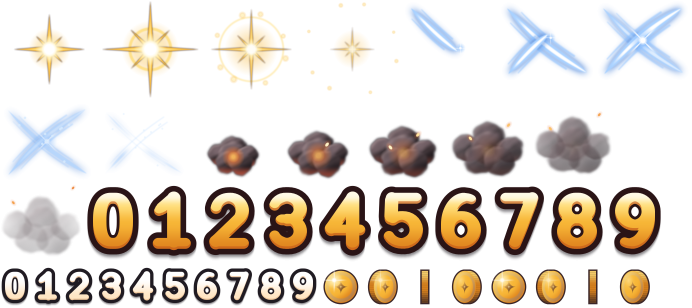
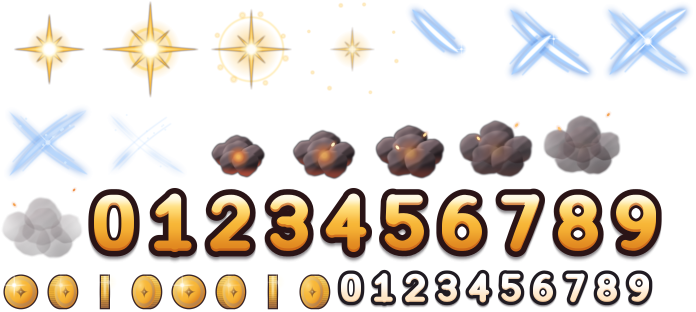
art: the painted feedback reads at phone size - broader cuts, gold star rays, crisper smoke, a coin that shows its edge
Reviewed over the painted Grunt and Cinder Mite on foundry stone and lava at 120 px a unit and at 3x: the Daggers'
cuts are broader with a wider white core, the crit star's rays heavier in warm gold round a tighter glow (a wide one
hazed the body under it), the smoke's billows defined at the edge with stepped light so they no longer blur at phone
size, its last frames thinner so the puff's end is never a pop, and the coin's rim gold with a lit crown and a glint
edge on, so a coin still reads mid-spin. The numerals' strokes are a touch lighter, opening their counters.
Same strips, cells and layout; the sheet is 696x312, 212 KiB as ASTC 4x4.

diff --git a/Tools/ArtReview/build_combat_feedback_vfx.py b/Tools/ArtReview/build_combat_feedback_vfx.py
@@ -10,10 +10,10 @@ the actors' style, with the pixel art kept as the fallback:
   - Smoke: soft soot billows lit from above and warmed from below, with an ember fleck or two, thinning into wisps:
     the death puff of an enemy without painted remains, and (tinted faint) a horde enemy's arrival.
   - Coin: a small gold coin spinning on its upright axis, a brass rim, an embossed face and a glint.
-  - Numerals: bold, chunky, slightly tapered digits drawn from vector strokes (no font is rasterised), a soot outline and
-    a soft shadow so they read on orange lava and on dark stone; white over pale warm for a hit, larger warm gold with a
-    hot highlight for a crit. Each glyph is a fixed cell pinned at its bottom-left corner and set at a fixed stride, the
-    same size and spacing as the pixel numerals, so CombatEffectsView lays a number out as before.
+  - Numerals: bold, chunky, slightly tapered digits drawn from vector strokes (no font is rasterised), a soot outline
+    and a soft shadow so they read on orange lava and on dark stone; white over pale warm for a hit, larger warm gold
+    with a hot highlight for a crit. Each glyph is a fixed cell pinned at its bottom-left corner and set at a fixed
+    stride, the same size and spacing as the pixel numerals, so CombatEffectsView lays a number out as before.
 
 Every frame goes on one shared sheet, so everything this draws batches, the numbers on screen included, and
 Assets/_Project/Art/Effects/Feedback/CombatFeedbackArtSet.asset is written with every strip's cells, pivot and density
@@ -46,8 +46,8 @@ SHEET_NAME = "VFX_Feedback"
 
 TPU = 128.0  # the painted actors' density
 
-# The feedback palette beside the skills' (build_skill_vfx): soot for smoke and outlines, gold and brass for the coin and
-# the crits.
+# The feedback palette beside the skills' (build_skill_vfx): soot for smoke and outlines, gold and brass for the coin
+# and the crits.
 SOOT = hex_rgb("#201B22")
 SOOT_WARM = hex_rgb("#2A1416")
 SMOKE_DEEP = hex_rgb("#2A2226")
@@ -70,7 +70,7 @@ PALE_WARM = hex_rgb("#FFE6C4")
 
 
 class FixedStrip(skill.Strip):
-    """Frames of one effect, each exported whole at the frame's own size, with the pivot the world origin of the frame."""
+    """Frames of one effect, each exported whole at the frame's own size, pinned at the frame's world origin."""
 
     def __init__(self, name, frames):
         self.name = name
@@ -93,8 +93,8 @@ class FixedStrip(skill.Strip):
 # (a broad nib's contrast), and free ends taper a little, so the glyphs read chunky but drawn rather than typed.
 
 BOX_ASPECT = 1.4
-STROKE_V = 0.168  # half the stroke weight of a vertical run, in box widths
-STROKE_H = 0.136  # and of a horizontal one
+STROKE_V = 0.158  # half the stroke weight of a vertical run, in box widths
+STROKE_H = 0.128  # and of a horizontal one
 L, R = STROKE_V, 1.0 - STROKE_V  # centrelines whose stroke touches the box's sides
 B, T = STROKE_H, BOX_ASPECT - STROKE_H  # and its foot and top
 
@@ -209,7 +209,7 @@ def numeral_frame(digit, critical):
     outline = (CRIT_OUTLINE if critical else DIGIT_OUTLINE) / TPU
     inner = (CRIT_INNER if critical else DIGIT_INNER) / TPU
     frame = Frame(0.0, 0.0, cell_w / TPU, cell_h / TPU, TPU)
-    # The fill box sits centred across the cell, so a row of cells centres its numerals; over the shadow's drop.
+    # The fill box sits centred across the cell, so a row of cells centres its number, and stands over the shadow.
     x0 = (cell_w / TPU - fill_w) * 0.5
     drop = (2.4 if critical else 1.3) / TPU
     y0 = outline + drop + 3.6 * scale / TPU
@@ -305,7 +305,7 @@ def paint_cut(frame, coords, reach, width, strength, core, noise=None, breakup=0
         frame.paint(STEEL_LIGHT, blur(lane, 0.5) * 0.55 * strength)
     frame.paint(mix(STEEL_LIGHT, STEEL_PALE, 0.35), blur(body, 0.35) * strength)
     if core > 0:
-        centre = np.clip((half * 0.42 - np.abs(across)) / frame.px + 0.5, 0.0, 1.0) * (half > 0)
+        centre = np.clip((half * 0.48 - np.abs(across)) / frame.px + 0.5, 0.0, 1.0) * (half > 0)
         centre = centre * smoothstep(0.08, 0.3, u)
         frame.paint(WHITE, blur(centre, 0.45) * core * strength)
 
@@ -324,11 +324,12 @@ def paint_glint(frame, x, y, size, strength, color=WHITE, glow=STEEL_LIGHT, rays
 def double_slash_frame(index, noise):
     frame = Frame(-0.46, -0.42, 0.46, 0.42, TPU)
     a, b = (cut_coords(frame, *cut) for cut in CUTS)
-    # By frame: (reach, width, strength, core, breakup) of the first cut and of the second.
-    first = ((0.62, 0.03, 1.0, 1.0, 0.0), (1.0, 0.034, 1.0, 1.0, 0.0), (1.0, 0.028, 0.85, 0.7, 0.0),
-             (1.0, 0.018, 0.6, 0.0, 0.35), (1.0, 0.011, 0.32, 0.0, 0.55))[index]
-    second = (None, (0.55, 0.03, 1.0, 1.0, 0.0), (1.0, 0.035, 1.0, 1.0, 0.0), (1.0, 0.024, 0.75, 0.35, 0.2),
-              (1.0, 0.014, 0.45, 0.0, 0.5))[index]
+    # By frame: (reach, width, strength, core, breakup) of the first cut and of the second, broad enough that a dagger's
+    # cut reads at phone size beside the sword's sweep.
+    first = ((0.62, 0.037, 1.0, 1.0, 0.0), (1.0, 0.042, 1.0, 1.0, 0.0), (1.0, 0.034, 0.85, 0.75, 0.0),
+             (1.0, 0.022, 0.6, 0.0, 0.35), (1.0, 0.013, 0.32, 0.0, 0.55))[index]
+    second = (None, (0.55, 0.037, 1.0, 1.0, 0.0), (1.0, 0.043, 1.0, 1.0, 0.0), (1.0, 0.03, 0.75, 0.4, 0.2),
+              (1.0, 0.017, 0.45, 0.0, 0.5))[index]
     for coords, cut in ((a, first), (b, second)):
         if cut is None:
             continue
@@ -391,12 +392,12 @@ def crit_star_frame(index):
     frame = Frame(-0.44, -0.44, 0.44, 0.44, TPU)
     # By frame: long ray length and half width, short ray length and half width, glow radius, core radius, strength.
     long_len, long_half, short_len, short_half, glow, core, strength = (
-        (0.27, 0.024, 0.14, 0.015, 0.11, 0.05, 1.0),
-        (0.37, 0.026, 0.21, 0.017, 0.15, 0.058, 1.0),
-        (0.31, 0.016, 0.15, 0.011, 0.14, 0.04, 0.85),
-        (0.17, 0.009, 0.08, 0.007, 0.1, 0.026, 0.55))[index]
+        (0.27, 0.032, 0.14, 0.02, 0.12, 0.05, 1.0),
+        (0.37, 0.034, 0.21, 0.022, 0.16, 0.058, 1.0),
+        (0.31, 0.021, 0.15, 0.014, 0.15, 0.04, 0.85),
+        (0.17, 0.012, 0.08, 0.009, 0.1, 0.026, 0.55))[index]
     # A tight warm glow: a wide one hazed the body it lit over.
-    frame.paint(GOLD, disc(frame, 0.0, 0.0, glow, soft=glow) * 0.45 * strength)
+    frame.paint(GOLD, disc(frame, 0.0, 0.0, glow, soft=glow) * 0.5 * strength)
     if index in (1, 2):
         # The burst's ring, racing out and thinning.
         r = (0.16, 0.25)[index - 1]
@@ -456,17 +457,18 @@ def smoke_frame(index, noise):
         billows.append((k, by, r, dx, dy, d, r * wobble))
     union = np.zeros(X.shape, np.float32)
     for k, by, r, dx, dy, d, edge in billows:
-        union = np.maximum(union, smoothstep(edge, edge - r * 0.3, d))
+        union = np.maximum(union, smoothstep(edge, edge - r * 0.14, d))
     union = union * wisps * thick
     # A soft soot edge round the whole cloud, so it parts from the dark stone as well as from the lava.
-    frame.paint(SOOT, blur(grow(union, 1.0), 0.8) * 0.7)
+    frame.paint(SOOT, blur(grow(union, 1.0), 0.45) * 0.75)
     for k, by, r, dx, dy, d, edge in sorted(billows, key=lambda b: -b[1]):
-        cover = smoothstep(edge, edge - r * 0.3, d) * wisps * thick
+        # A defined edge, as the painted actors have, softened only by the brush: a soft one blurred at phone size.
+        cover = smoothstep(edge, edge - r * 0.14, d) * wisps * thick
         n = np.stack([dx, dy], -1) / np.maximum(d, 1e-6)[..., None]
         # Lit from the upper left, strongest toward each billow's edge, as round smoke is.
         lambert = np.clip((n @ light) * np.clip(d / r, 0.0, 1.0) ** 0.7 * 0.6 + 0.5, 0.0, 1.0)
-        tone = mix(SMOKE_DEEP, SMOKE, smoothstep(0.1, 0.45, lambert))
-        tone = mix(tone, SMOKE_LIT, smoothstep(0.5, 0.8, lambert))
+        tone = mix(SMOKE_DEEP, SMOKE, smoothstep(0.2, 0.4, lambert))
+        tone = mix(tone, SMOKE_LIT, smoothstep(0.55, 0.72, lambert))
         tone = mix(tone, SMOKE_RIM, smoothstep(0.8, 1.0, lambert) * smoothstep(0.55, 0.95, d / edge))
         # Brushed through with a soft turbulence, so a billow is never a flat ball.
         tone = tone * (0.92 + 0.12 * noise(X * 3.1 + k, Y * 3.1 - rise * 4.0))[..., None]
@@ -507,7 +509,7 @@ def paint_fleck(frame, x, y, radius, hot, angle):
 
 COIN_FRAMES = 8
 COIN_RADIUS = 0.125
-COIN_THICK = 0.05
+COIN_THICK = 0.06
 
 
 def coin_frame(index):
@@ -542,12 +544,15 @@ def coin_frame(index):
     outline = np.maximum(np.maximum(ellipse(shift, face_w, R, 1.4 / TPU), ellipse(-shift, face_w, R, 1.4 / TPU)),
                          band(1.4 / TPU))
     frame.paint(SOOT_WARM, outline * 0.92)
-    # The rim's side: brass, lit along its top, with fine milling.
+    # The rim's side: gold over brass, lit along its top and down the crown of its curve, with fine milling, bright
+    # enough that the coin still reads edge on.
     height = np.clip((Y + R) / (2 * R), 0.0, 1.0)
-    side = mix(BRASS_DARK, GOLD_DEEP, smoothstep(0.0, 0.45, height))
+    side = mix(BRASS, GOLD, smoothstep(0.0, 0.5, height))
     side = mix(side, GOLD_LIGHT, smoothstep(0.55, 0.92, height) * 0.85)
-    milling = 0.85 + 0.15 * np.cos(Y / R * 26.0) ** 2
+    milling = 0.86 + 0.14 * np.cos(Y / R * 26.0) ** 2
     frame.paint(side * milling[..., None], silhouette)
+    crown = smoothstep(abs(shift) * 0.55 + 0.3 / TPU, 0.0, np.abs(X)) * band()
+    frame.paint(GOLD_HOT, crown * smoothstep(0.15, 0.6, height) * 0.7)
     # The face turned to the camera, the front or the back alike.
     if face_w > 0.2 / TPU:
         fx = shift if c >= 0 else -shift
@@ -572,10 +577,12 @@ def coin_frame(index):
         sheen = np.clip(1.0 - np.hypot(u + 0.35, v - 0.4) / 0.45, 0.0, 1.0) * face
         frame.paint(GOLD_HOT, sheen ** 1.5 * 0.55 * abs(c))
     # The glint, as the face meets the light.
-    glint = (1.0, 0.45, 0.0, 0.0, 0.8, 0.35, 0.0, 0.0)[index]
+    # The glint, as the face meets the light and, fainter, as the rim does.
+    glint = (1.0, 0.45, 0.4, 0.0, 0.8, 0.35, 0.3, 0.0)[index]
     if glint > 0:
         gx = (shift if c >= 0 else -shift) - face_w * 0.42
-        paint_glint(frame, gx, R * 0.42, 0.05, glint, color=WHITE, glow=GOLD_HOT, rays=4)
+        paint_glint(frame, gx, R * (0.42 if face_w > 0.2 / TPU else 0.6), 0.05, glint, color=WHITE, glow=GOLD_HOT,
+                    rays=4)
     return frame
 
 
